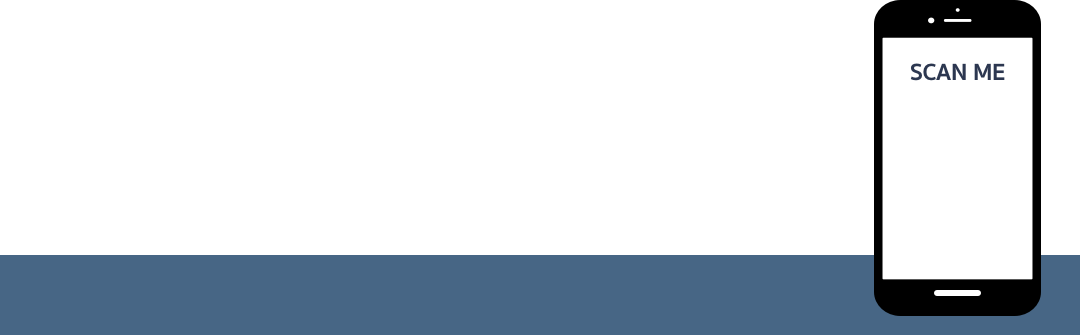
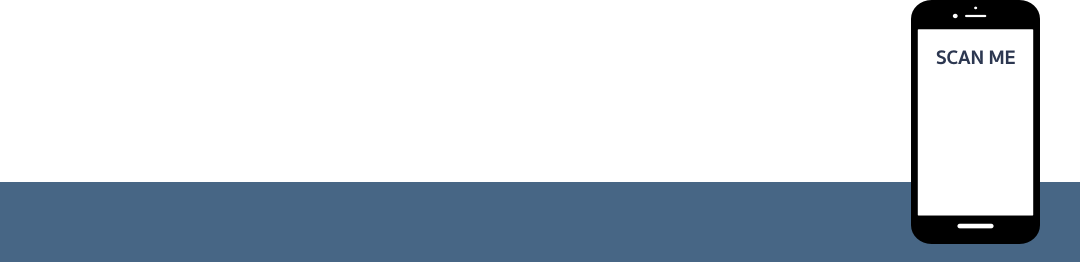
Update UI layout

Changed region(s): [[0.0, 0.0, 0.9778, 0.9466], [0.9472, 0.6718, 1.0, 0.7634]]

diff --git a/src/css/main.css b/src/css/main.css
@@ -1,2 +1,2 @@
 /*! normalize.css v4.1.1 | MIT License | github.com/necolas/normalize.css */
[2 lines of base64/hex data omitted]

diff --git a/src/css/stylesheet.css b/src/css/stylesheet.css
@@ -16,15 +16,12 @@
     padding: 70px 0;
 }*/
 
+/* Full Screen */
+
 .demo {
     z-index: 1;
 }
-.actions {
-    position: absolute;
-    top:-1800px;
-    left:980px;
-    z-index:2;
-}
+
 /*With tag*/
 /*.actions {
     position: absolute;
@@ -32,34 +29,49 @@
     right:20px;
     z-index:2;
 }*/
+
 .tag {
     position: absolute;
     top:-1800px;
     left:0px;
     z-index:2;
 }
+
 .play-pause {
     position: absolute;
-    top:-1250px;
+    top:-1260px;
     left:470px;
     z-index:2;
 }
-.tutorial {
+
+
+.actions {
     position: absolute;
-    top:-1500px;
-    left:180px;
+    top:-1850px;
+    left:960px;
+    z-index:2;
+}
+
+/*.tutorial {
+    width: 450px;
+    height: 220px;
+    position: absolute;
+    top:-1300px;
+    left:340px;
     z-index:2;
     background-color: rgba(0, 0, 0, 0.9);
     padding: 10px;
     border-radius: 20px;
     text-align: center;
-}
+    color: #ffffff;
+}*/
+
 .feedback {
     width: 450px;
     height: 220px;
     position: absolute;
-    top:-1500px;
-    left:180px;
+    top:-1300px;
+    left:320px;
     z-index:2;
     background-color: rgba(0, 0, 0, 0.7);
     padding: 10px;
@@ -67,6 +79,7 @@
     text-align: center;
     color: #ffffff;
 }
+
 .overlay {
     width: 1080px;
     height: 70px;
@@ -82,6 +95,7 @@
     width: 1080px; 
     height: 1920px;
 }
+
 #renewCode {
     background-color: rgba(0, 0, 0, 0.8);
     color: #007aff;
@@ -110,25 +124,14 @@
 .overlay-footer {
     position: absolute;
     bottom: 7px;
-    left: 195px;
+    left: 15px;
     z-index:2;
 }
 
-/*.overlay-qr {
-    width: 250px;
-    height: 250px;
-    position: absolute;
-    bottom: 0px;
-    right:150px;
-    z-index:2;
-    background-color: #ffffff;
-    border-radius: 80px 0px 0px 0px;
-}*/
-
 #qrcode {
     position: absolute;
-    bottom: 110px;
-    right:62px;
+    bottom: 80px;
+    right: 55px;
     z-index:3;
 }
 
@@ -136,11 +139,9 @@
     color: #ffffff;
     position: absolute;
     bottom: 20px;
-    left: 160px;
+    left: 200px;
     z-index:3;
 }
-
-
 
 /* Font icons*/
 .material-icons.active { 
@@ -155,3 +156,58 @@
 .material-icons.white{ 
     color: #ffffff; 
 }
+
+/* Minimize */
+/*.slide-img {
+    width: 1080px; 
+    height: 1760px;
+}
+
+.actions {
+    position: absolute;
+    top:-1650px;
+    left:960px;
+    z-index:2;
+}
+
+.tutorial {
+    position: absolute;
+    top:-1200px;
+    left:350px;
+    z-index:2;
+    background-color: rgba(0, 0, 0, 0.9);
+    padding: 10px;
+    border-radius: 20px;
+    text-align: center;
+}
+
+.feedback {
+    width: 450px;
+    height: 220px;
+    position: absolute;
+    top:-1250px;
+    left:320px;
+    z-index:2;
+    background-color: rgba(0, 0, 0, 0.7);
+    padding: 20px;
+    border-radius: 20px;
+    text-align: center;
+    color: #ffffff;
+}
+
+.overlay {
+    width: 1080px;
+    height: 70px;
+    position: absolute;
+    top: -1765px;
+    left: 0px;
+    z-index:2;
+    background-color: rgba(0, 0, 0, 0.4);
+    padding: 10px;
+}
+
+#renewCode {
+    background-color: rgba(0, 0, 0, 0.8);
+    color: #007aff;
+}*/
+

diff --git a/src/index.html b/src/index.html
@@ -105,9 +105,10 @@
         </div>
         <div class="row">
             <div class="col-md-12">
-                <div id="popupTutorial" class="tutorial">
-                    <i class="material-icons md-128" style="color: #ffffff;">perm_device_information</i>
-                    <h3 style="color: #ffffff;">Learn how to use on your phone</h3>
+                <div id="popupTutorial" class="feedback">
+                    <h2>Let's control me!</h2>
+                    <i class="material-icons md-64">perm_device_information</i>
+                    <h3>Learn how to use on your phone</h3>
 <!--                     <img src="img/tutorial.png"> -->
                 </div>
             </div>
@@ -151,22 +152,7 @@
             </div>
         </div>
     </div>
-<!--     <div class="row">
-        <div class="col-md-12">
-            <div id="overlayInstruc" class="overlay-footer">
-            </div>
-        </div>
-    </div>
-    <div class="row">
-        <div class="col-md-12">
-            <div id="overlayQR" class="overlay-qr">
-                <h3>SCAN ME</h3>
-                <p>to control</p>
-                <div id="qrcode"></div>
-            </div>
-        </div>
-    </div>
-     -->
+
 <!--     <div class="row">    
         <div id="qrcodeModal" class="modal fade" data-backdrop="false">
           <div class="modal-dialog" role="document">
@@ -196,8 +182,8 @@
         var timerSlide,timerFeedback,timerPlayer,timerTimeout = 0;
         var loopState = 'play';
         var qrcode = new QRCode(document.getElementById("qrcode"), {
-            width : 120,
-            height : 120,
+            width : 100,
+            height : 100,
             correctLevel : QRCode.CorrectLevel.H
         });
 
